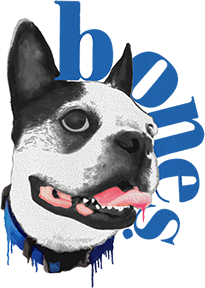
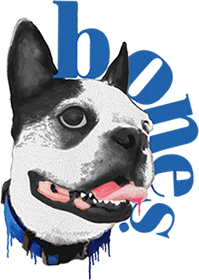
added images to events page

diff --git a/client/src/components/Carousel/index.js b/client/src/components/Carousel/index.js
@@ -1,0 +1,68 @@
+import React from "react";
+import FadeIn from 'react-fade-in';
+import JazzOne from "../../assets/jazz_image_one.jpg";
+import JazzTwo from "../../assets/jazz_image_two.jpg";
+import JazzThree from "../../assets/jazz_image_three.jpg";
+import JazzFour from "../../assets/jazz_image_four.jpg";
+
+
+export default function Carousel() {
+
+    return (<FadeIn>
+        <div className="mx-auto h-25">
+            <div id="carouselExampleCaptions" className="carousel cycle carousel-fade" data-ride="carousel">
+                <ol className="carousel-indicators">
+                    <li data-target="#carouselExampleCaptions" data-slide-to="0" className="active"></li>
+                    <li data-target="#carouselExampleCaptions" data-slide-to="1"></li>
+                    <li data-target="#carouselExampleCaptions" data-slide-to="2"></li>
+                </ol>
+                {/* first Slide */}
+                <div className="carousel-inner">
+                    <div className="carousel-item active">
+                        <img src={JazzOne} className="d-block w-100" alt="pic" />
+                        <div className="carousel-caption d-none d-md-block">
+                            <h5>First slide label</h5>
+                            <p>Nulla vitae elit libero, a pharetra augue mollis interdum.</p>
+                        </div>
+                    </div>
+                    {/* Second Slide */}
+                    <div className="carousel-item mx-auto">
+                        <img src={JazzTwo} className="d-block w-100" alt="pic" />
+                        <div className="carousel-caption d-none d-md-block">
+                            <h5>Second slide label</h5>
+                            <p>Lorem ipsum dolor sit amet, consectetur adipiscing elit.</p>
+                        </div>
+                    </div>
+                    {/* Third Slide */}
+                    <div className="carousel-item">
+                        <img src={JazzThree} className="d-block w-100" alt="pic" />
+                        <div className="carousel-caption d-none d-md-block">
+                            <h5>Third slide label</h5>
+                            <p>Praesent commodo cursus magna, vel scelerisque nisl consectetur.</p>
+                        </div>
+                    </div>
+                    {/* Four Slide */}
+                    <div className="carousel-item mx-auto">
+                        <img src={JazzFour} className="d-block w-100" alt="pic" />
+                        <div className="carousel-caption d-none d-md-block">
+                            <h5>Second slide label</h5>
+                            <p>Lorem ipsum dolor sit amet, consectetur adipiscing elit.</p>
+                        </div>
+                    </div>
+                </div>
+                <a className="carousel-control-prev" href="#carouselExampleCaptions" role="button" data-slide="prev">
+                    <span className="carousel-control-prev-icon" aria-hidden="true"></span>
+                    <span className="sr-only">Previous</span>
+                </a>
+                <a className="carousel-control-next" href="#carouselExampleCaptions" role="button" data-slide="next">
+                    <span className="carousel-control-next-icon" aria-hidden="true"></span>
+                    <span className="sr-only">Next</span>
+                </a>
+            </div>
+        </div>
+    </FadeIn>
+    )
+}
+
+
+

diff --git a/client/src/components/EventsPage/index.js b/client/src/components/EventsPage/index.js
@@ -1,13 +1,16 @@
 import React, { useState, useEffect } from 'react';
-import Calendar from "../Calendar"
 import Event from "../Event"
+import Carousel from "../Carousel"
 import axios from "axios"
+import Logo from "../../assets/bones_higer_res.png";
 
 export default function EventsPage() {
-    const mystyle = {
-        paddingTop: "5rem"
-    };
-
+    const logoStyle = {
+        position: `absolute`,
+        top: `16px`,
+        left: `45px`,
+        zIndex: "6"
+    }
     const [events, setEvent] = useState([])
 
     useEffect(() => {
@@ -17,9 +20,23 @@ export default function EventsPage() {
         })
     }, [])
 
+    const handleOnInputChange = ((eventsList) => {
+        const startdate = document.getElementById("searchInput").value;
+        axios.get("/api/event/" + startdate).then((eventsList) => {
+            setEvent(eventsList.data);
+        })
+    })
+
+
     return (
-        <div className="mx-auto d-flex flex-column" style={mystyle}>
-            <Calendar />
+        <div className="mx-auto d-flex flex-column mt-3">
+            <img src={Logo} alt="bones_logo" style={logoStyle} />
+            <Carousel />
+            <div className="input-group mt-5 d-flex justify-content-center align-items-center">
+                <h5>Search by Date:</h5>
+                <input type="date" className="form-control col-2" aria-label="Sizing example input" aria-describedby="inputGroup-sizing-default" id="searchInput" />
+                <button type="button" className="btn btn-info my-auto ml-3 btn-sm" onClick={handleOnInputChange}>Search</button>
+            </div>
             {events.map((event, index) =>
                 <Event
                     key={event._id}

diff --git a/client/src/components/Event/index.js b/client/src/components/Event/index.js
@@ -1,23 +1,34 @@
 import React from "react";
 
 function Event(props) {
+
+    // <div class="card">
+    //     <h5 class="card-header">Featured</h5>
+    //     <div class="card-body">
+    //         <h5 class="card-title">Special title treatment</h5>
+    //         <p class="card-text">With supporting text below as a natural lead-in to additional content.</p>
+    //         <a href="#" class="btn btn-primary">Go somewhere</a>
+    //     </div>
+    // </div>
+
+    /////////////
+
+
     return (
-        <div className="mx-auto">
-            <h1>Events goes here</h1>
-            <div className="row">
-                <div className="col"><h2>{props.date}: {props.eventName} at {props.venueName}</h2>
-                    <h3>{props.startTime} / {props.address} / {props.cover}</h3></div>
-            </div>
-            <div className="row">
-                <div className="col"><ul>{props.sets.map(set => (
-                    <li>
-                        <h1>{set.startTime}</h1>
-                        <h3>{set.artists}</h3>
-                    </li>
+        <div className="card border-light mx-auto mt-3">
+            <div >{props.date}: {props.eventName} at {props.venueName}</div>
+            <div className="card-body">
+                <h3 className="card-title">{props.startTime} / {props.address} / {props.cover}</h3>
+                <div>{props.sets.map(set => (
+                    <div>
+                        <p>{set.startTime}</p>
+                        <p>{set.artists}</p>
+                    </div>
                 ))}
-                </ul></div>
+                </div>
             </div>
         </div>
+
     )
 }
 

diff --git a/client/public/index.html b/client/public/index.html
@@ -9,6 +9,12 @@
   <meta name="theme-color" content="#000000" />
   <meta name="description" content="Bones, NYC jazz events" />
   <link rel="apple-touch-icon" href="%PUBLIC_URL%/bones192.png" />
+  <script src="https://code.jquery.com/jquery-3.5.1.slim.min.js"
+    integrity="sha384-DfXdz2htPH0lsSSs5nCTpuj/zy4C+OGpamoFVy38MVBnE+IbbVYUew+OrCXaRkfj"
+    crossorigin="anonymous"></script>
+  <script src="https://cdn.jsdelivr.net/npm/bootstrap@4.5.3/dist/js/bootstrap.bundle.min.js"
+    integrity="sha384-ho+j7jyWK8fNQe+A12Hb8AhRq26LrZ/JpcUGGOn+Y7RsweNrtN/tE3MoK7ZeZDyx"
+    crossorigin="anonymous"></script>
   <link
     href="https://fonts.googleapis.com/css2?family=Covered+By+Your+Grace&family=Fredericka+the+Great&family=Gloria+Hallelujah&family=Montserrat:wght@400&family=Neucha&family=Rock+Salt&family=Special+Elite&display=swap"
     rel="stylesheet">

diff --git a/client/src/components/NaviBar/index.js b/client/src/components/NaviBar/index.js
@@ -7,7 +7,7 @@ const bgStyle = {
     color: "white",
     backgroundImage: `url(${BrickWall})`,
     boxShadow: "3px 3px 8px rgb(50, 50, 50, 0.4)",
-    height: `12rem`,
+    height: `8rem`,
 };
 const style = {
     backgroundColor: `rgba(255, 255, 255, 0.7)`,
@@ -17,7 +17,8 @@ const style = {
 const logoStyle = {
     position: `absolute`,
     top: `16px`,
-    left: `45px`
+    left: `45px`,
+    zIndex: "6"
 }
 export default function NaviBar() {
     return (<FadeIn>
